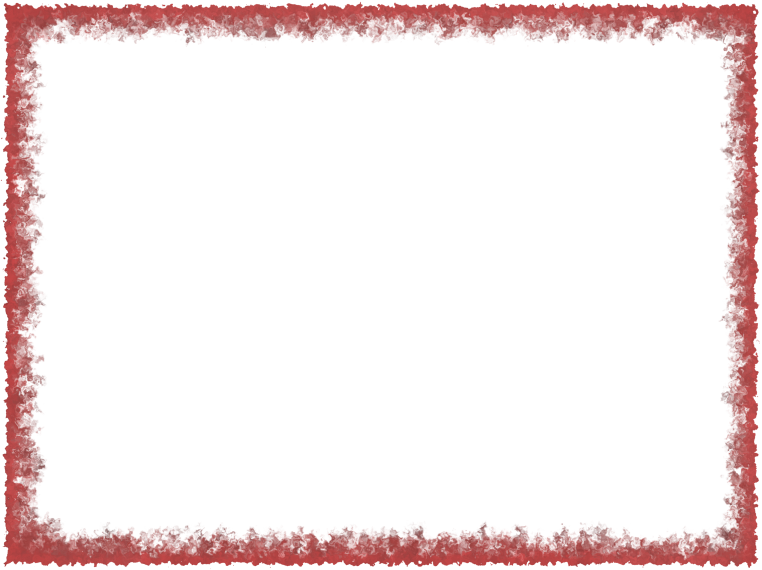
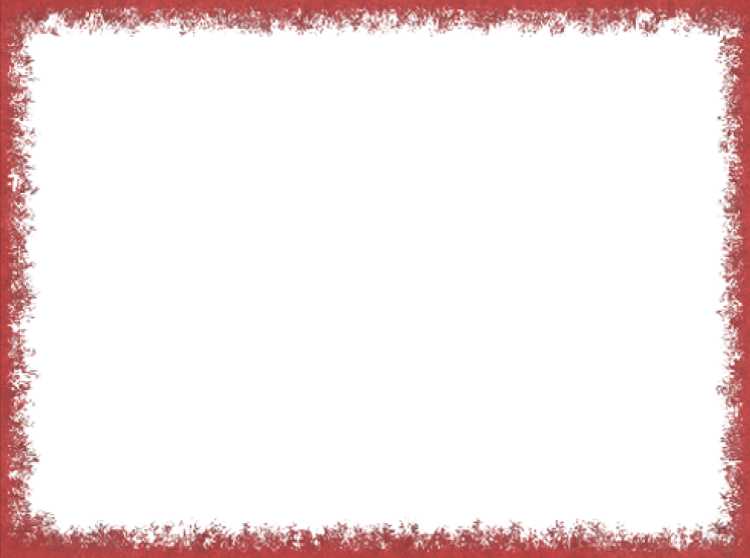
Fixed doom border and POTW border

Changed region(s): [[0.0, 0.0, 1.0, 1.0]]

diff --git a/user_profile/image_test.py b/user_profile/image_test.py
@@ -81,7 +81,7 @@ async def generate_test_card(
     guild = str(data.get("guild", "No guild"))
     if guild == "None":
         guild = "No guild"
-    has_been_potw = data.get("has_been_potw", False)
+    has_been_potw = data.get("has_been_potw", True)
     # is_potw = any(role.id == POTW_ROLE_ID for role in target.roles)
     game_ref = db.collection("wordle_games").document(str(292040660696039424))
     game_doc = game_ref.get()
@@ -102,7 +102,7 @@ async def generate_test_card(
     border = data.get("border", {})
     card = data.get("card", {})
     gems = data.get("gems", 0)
-    bg = Image.open(ASSETS_DIR / f"test_card2.png").convert("RGBA")
+    bg = Image.open(ASSETS_DIR / f"default.png").convert("RGBA")
     role = data.get("highlighted_role", "None")
 
     # if border:
@@ -117,9 +117,9 @@ async def generate_test_card(
     # if border == "Test Border":
     #    test_border = Image.open(ASSETS_DIR / "test_border.png").convert("RGBA")
     #    bg.paste(test_border, (0, 0), test_border)
-    # if is_potw:
-    #    potw_border = ASSET_CACHE["potw_border"]
-    #    bg.paste(potw_border, (27, 19), potw_border)
+
+    potw_border = load_asset("potw_border.webp", (226, 241))
+    bg.paste(potw_border, (39, 32), potw_border)
 
     font_big = load_font("Urbanist-Regular.ttf", 54)
     font_bold = load_font("Urbanist-Bold.ttf", 66)

diff --git a/assets_caching.py b/assets_caching.py
@@ -63,7 +63,7 @@ def initialize_assets():
     ASSET_CACHE["average"] = load("average.png", (27, 27))
     ASSET_CACHE["ticket"] = load("ticket.png", (25, 25))
 
-    ASSET_CACHE["potw_border"] = load("potw_border.webp", (158, 168))
+    ASSET_CACHE["potw_border"] = load("potw_border.webp", (226, 241))
     ASSET_CACHE["potw_flare"] = load("potw_flare.webp", (42, 42))
 
     ASSET_CACHE["default_bg"] = load("default.png")

diff --git a/user_profile/image_generation.py b/user_profile/image_generation.py
@@ -95,7 +95,7 @@ async def generate_profile_card(
 
     if is_potw:
         potw_border = ASSET_CACHE["potw_border"]
-        bg.paste(potw_border, (27, 19), potw_border)
+        bg.paste(potw_border, (39, 32), potw_border)
 
     font_big = FONTS["big"]
     font_bold = FONTS["bold"]
